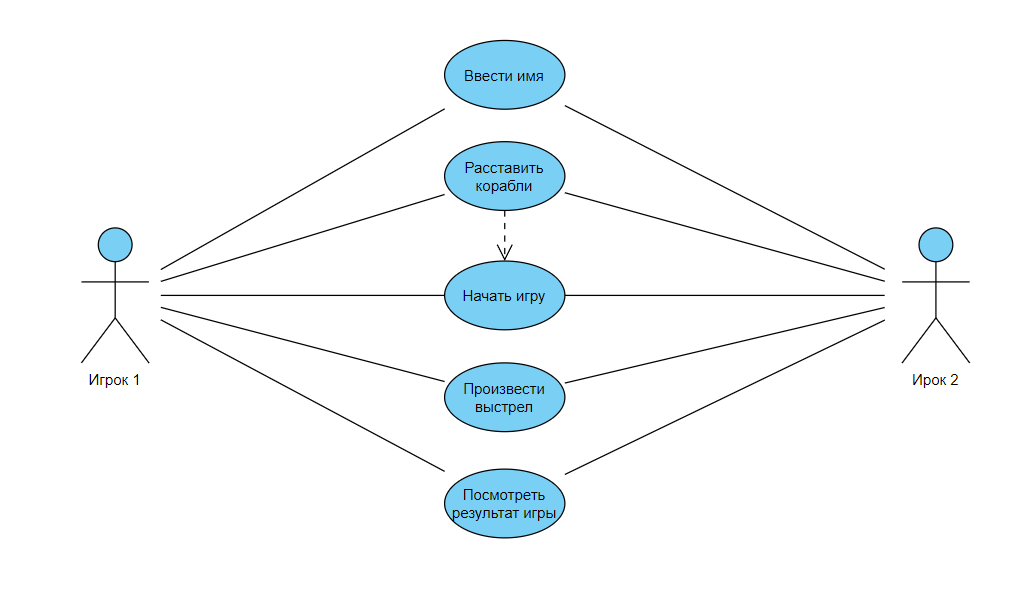
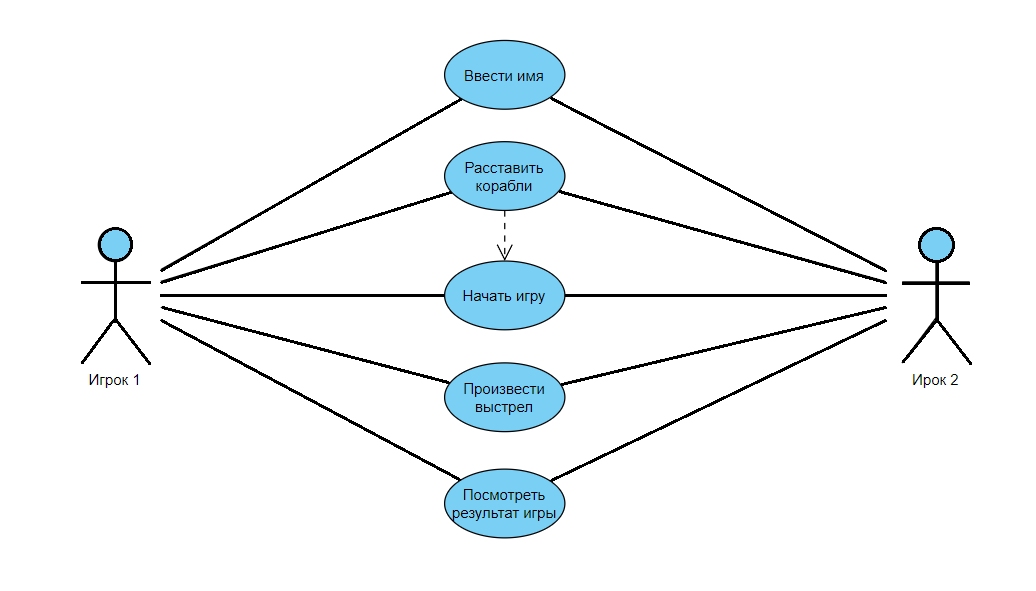
assembly and launcg

diff --git a/README.md b/README.md
@@ -16,3 +16,7 @@
 Цель игрока: первым убить все игровые "корабли" врага.
 
 Версия языка: java 11
+
+Команда для сборки: javac -d bin ./src/main/java/org/example/*
+
+Команда для запуска: java -classpath bin org/example/Game
